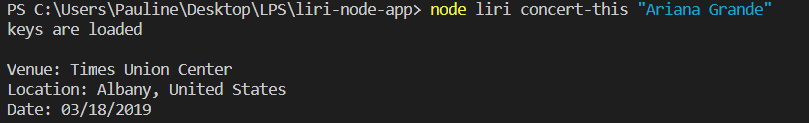
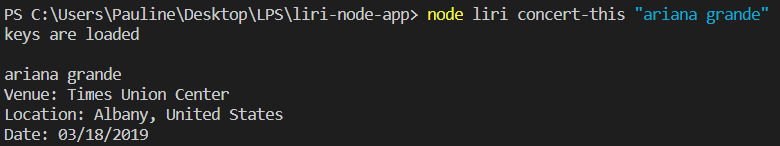
reademe

Changed region(s): [[0.0, 0.4634, 0.3692, 0.9756], [0.0, 0.0, 0.9846, 0.1707], [0.0, 0.1707, 0.1846, 0.3171]]

diff --git a/liri.js b/liri.js
@@ -72,9 +72,9 @@ function concertThis(musician) {
                 ].join("\n");
 
                 // Append concertInfo to log.txt + print to console
-                fs.appendFile("log.txt", search + concertInfo + divider, function (err) {
+                fs.appendFile("log.txt", search + musician + "\n" + concertInfo + divider, function (err) {
                     if (err) throw err;
-                    console.log("\n" + concertInfo + "\n");
+                    console.log("\n" + musician + "\n" + concertInfo + "\n");
                 });
             }
 

diff --git a/README.md b/README.md
@@ -1,8 +1,8 @@
 # LIRI
 
-### Overview
-
 LIRI is like iPhone's SIRI. However, while SIRI is a Speech Interpretation and Recognition Interface, LIRI is a _Language_ Interpretation and Recognition Interface. LIRI is a command line node app that takes in parameters and gives you back data.
+
+### Overview
 
 1. LIRI will search Spotify for songs, Bands in Town for concerts, and OMDB for movies.
 
@@ -17,17 +17,8 @@ LIRI is like iPhone's SIRI. However, while SIRI is a Speech Interpretation and R
    * [Moment](https://www.npmjs.com/package/moment)
 
    * [DotEnv](https://www.npmjs.com/package/dotenv)
-   
-## Submission Guide
 
-* Include screenshots (or a video) of typical user flows through your application (for the customer and if relevant the manager/supervisor). This includes views of the prompts and the responses after their selection (for the different selection options).
-
-* Include any other screenshots you deem necessary to help someone who has never been introduced to your application understand the purpose and function of it. This is how you will communicate to potential employers/other developers in the future what you built and why, and to show how it works. 
-
-* Because screenshots (and well-written READMEs) are extremely important in the context of GitHub, this will be part of the grading.
-
-If you haven't written a markdown file yet, [click here for a rundown](https://guides.github.com/features/mastering-markdown/), or just take a look at the raw file of these instructions.
-
+3. In addition to logging the data to the terminal/bash window, the commands and data are appended to a .txt file called `log.txt`.
 
 ### What Each Command Does
 
@@ -41,14 +32,20 @@ If you haven't written a markdown file yet, [click here for a rundown](https://g
 
      * Date of the Event (formatted as"MM/DD/YYYY")
 
-  Defaults to search for Boyz II Men:
-  ![concert-this default](concert-this.PNG)
+  Example:
 
   ![concert-this CLI](concert-this_ariana-grande.PNG)
+  ![concert-this log CLI](concert-this_ariana-grande-log.PNG)
+
+  Defaults to search for Boyz II Men:
+
+  ![concert-this default](concert-this.PNG)
+  ![concert-this log default](concert-this-log.PNG)
+
 
 2. `node liri.js spotify-this-song '<song name here>'`
 
-   * This will show the following information about the song in your terminal/bash window
+   * This will show the following information about the song in the terminal/bash window
 
      * Artist(s)
 
@@ -58,26 +55,18 @@ If you haven't written a markdown file yet, [click here for a rundown](https://g
 
      * The album that the song is from
 
-   * If no song is provided then your program will default to "The Sign" by Ace of Base.
+  Example:
 
-   * You will utilize the [node-spotify-api](https://www.npmjs.com/package/node-spotify-api) package in order to retrieve song information from the Spotify API.
-
-   * The Spotify API requires you sign up as a developer to generate the necessary credentials. You can follow these steps in order to generate a **client id** and **client secret**:
-
-   * Step One: Visit <https://developer.spotify.com/my-applications/#!/>
-
-   * Step Two: Either login to your existing Spotify account or create a new one (a free account is fine) and log in.
-
-   * Step Three: Once logged in, navigate to <https://developer.spotify.com/my-applications/#!/applications/create> to register a new application to be used with the Spotify API. You can fill in whatever you'd like for these fields. When finished, click the "complete" button.
-
-   * Step Four: On the next screen, scroll down to where you see your client id and client secret. Copy these values down somewhere, you'll need them to use the Spotify API and the [node-spotify-api package](https://www.npmjs.com/package/node-spotify-api).
-  
-  ![spotify-this-song default](spotify-this-song.PNG)
   ![spotify-this-song CLI](spotify-this-song_happy-pharell.PNG)
+
+   * If no song is provided then search will default to "The Sign" by Ace of Base.
+
+  ![spotify-this-song default](spotify-this-song.PNG)
+
 
 3. `node liri.js movie-this '<movie name here>'`
 
-   * This will output the following information to your terminal/bash window:
+   * This will output the following information to the terminal/bash window:
 
      ```
        * Title of the movie.
@@ -89,15 +78,14 @@ If you haven't written a markdown file yet, [click here for a rundown](https://g
        * Plot of the movie.
        * Actors in the movie.
      ```
+   
+   Example:
+   
+   ![movie-this CLI](movie-this_Moana.PNG)
 
    * If the user doesn't type a movie in, the program will output data for the movie 'Mr. Nobody.'
 
-     * If you haven't watched "Mr. Nobody," then you should: <http://www.imdb.com/title/tt0485947/>
-
-     * It's on Netflix!
-
    ![movie-this default](movie-this.PNG)
-   ![movie-this CLI](movie-this_Moana.PNG)
 
 4. `node liri.js do-what-it-says`
 
@@ -108,19 +96,3 @@ If you haven't written a markdown file yet, [click here for a rundown](https://g
      * Edit the text in random.txt to test out the feature for movie-this and my-tweets
 
     ![do-what-it-says CLI](do-what-it-says.PNG)
-
-### BONUS
-
-* In addition to logging the data to your terminal/bash window, output the data to a .txt file called `log.txt`.
-
-* Make sure you append each command you run to the `log.txt` file. 
-
-* Do not overwrite your file each time you run a command.
-
-- - -
-
-### Create a README.md
-
-* [About READMEs](https://help.github.com/articles/about-readmes/)
-
-* [Mastering Markdown](https://guides.github.com/features/mastering-markdown/)
